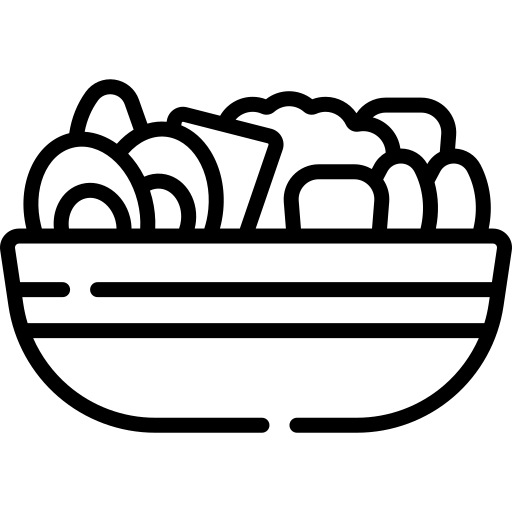
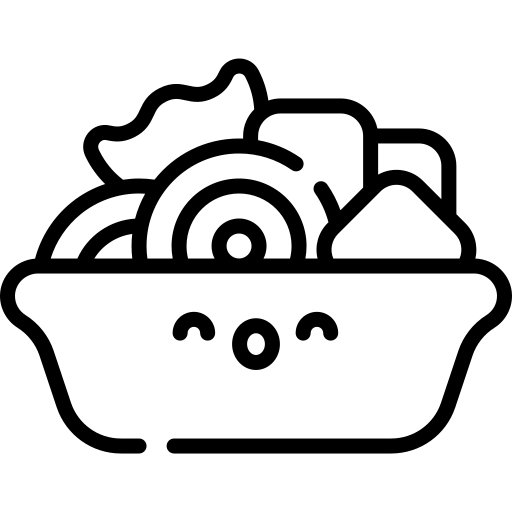
Mejora en método modificarProducto. Cambiados los iconos en todas(?) las pantallas

Changed region(s): [[0.0, 0.0938, 1.0, 0.9062]]

diff --git a/src/main/java/daw/UtilidadesAdmin.java b/src/main/java/daw/UtilidadesAdmin.java
@@ -15,14 +15,11 @@ import javax.swing.JTextField;
  * @author francisco
  */
 public class UtilidadesAdmin {
-    
-    public static boolean pedirPassword(){
-        
+
+    public static boolean pedirPassword() {
+
         boolean paswordValida = false;
-        
-        
-        
-        
+
         return paswordValida;
     }
 
@@ -32,7 +29,7 @@ public class UtilidadesAdmin {
             "Borrar producto", "Consultar ventas", "Volver"};
         int opcionElegida = JOptionPane.showOptionDialog(null,
                 "Escoge una opción", "TPV - Poke Zen", JOptionPane.DEFAULT_OPTION,
-                JOptionPane.PLAIN_MESSAGE, null, options, options[4]);
+                JOptionPane.PLAIN_MESSAGE, new ImageIcon("src/main/java/iconos/admin1.png"), options, options[4]);
 
         switch (opcionElegida) {
             case 0 -> {
@@ -51,7 +48,7 @@ public class UtilidadesAdmin {
             case 2 -> {
                 Producto opcionElegidaProducto = (Producto) JOptionPane.showInputDialog(null,
                         "Escoge el producto a borrar", "TPV - Poke Zen", JOptionPane.QUESTION_MESSAGE,
-                        null, tpv.getCartaProductos().toArray(),
+                        new ImageIcon("src/main/java/iconos/admin1.png"), tpv.getCartaProductos().toArray(),
                         tpv.getCartaProductos().get(0));
                 for (Producto p : tpv.getCartaProductos()) {
                     if (opcionElegidaProducto.equals(p)) {
@@ -71,8 +68,8 @@ public class UtilidadesAdmin {
     private static void modificarProducto(TPV tpv) {
 
         Producto opcionElegidaProducto = (Producto) JOptionPane.showInputDialog(null,
-                "Escoge el producto a editar", "TPV - Poke Zen", JOptionPane.QUESTION_MESSAGE,
-                null, tpv.getCartaProductos().toArray(),
+                "Escoge el producto a editar", "TPV - Poke Zen", JOptionPane.OK_CANCEL_OPTION,
+                new ImageIcon("src/main/java/iconos/admin1.png"), tpv.getCartaProductos().toArray(),
                 tpv.getCartaProductos().get(0));
 
         JTextField descrip = new JTextField();
@@ -91,19 +88,21 @@ public class UtilidadesAdmin {
             "Stock:", stock
         };
 
-        int option = JOptionPane.showConfirmDialog(null, message,
-                "TPV", JOptionPane.OK_CANCEL_OPTION);
+        int option = JOptionPane.showConfirmDialog(null, message, 
+                "TPV - Poke Zen", JOptionPane.OK_CANCEL_OPTION, 
+                JOptionPane.QUESTION_MESSAGE, 
+                new ImageIcon("src/main/java/iconos/admin1.png"));
 
         if (option == JOptionPane.OK_OPTION) {
 
             String atributosCambiados = "";
 
-            if (!descrip.getText().equals("")) {
+            if (!descrip.getText().trim().equals("")) {
                 opcionElegidaProducto.setDescripcion(descrip.getText());
                 atributosCambiados += "Descripción, ";
             }
 
-            if (!categ.getText().equals("")) {
+            if (!categ.getText().trim().equals("")) {
                 for (Categoria c : Categoria.values()) {
                     if (categ.getText().equalsIgnoreCase(c.getCATEGORIA())) {
                         opcionElegidaProducto.setCategoria(c);
@@ -112,7 +111,7 @@ public class UtilidadesAdmin {
                 }
             }
 
-            if (!subcat.getText().equals("")) {
+            if (!subcat.getText().trim().equals("")) {
                 for (Subcategoria s : Subcategoria.values()) {
                     if (subcat.getText().equalsIgnoreCase(s.getSUBCATEGORIA())) {
                         opcionElegidaProducto.setSubcategoria(s);
@@ -121,52 +120,55 @@ public class UtilidadesAdmin {
                 }
             }
 
-            if (!precio.getText().equals("")) {
+            boolean error = false;
+
+            if (!precio.getText().trim().equals("")) {
 
                 try {
                     opcionElegidaProducto.setPrecio(Double.parseDouble(precio.getText()));
                     atributosCambiados += "Precio, ";
                 } catch (NumberFormatException nfe) {
+                    error = true;
                     String[] opciones = {"Aceptar"};
 
                     JOptionPane.showOptionDialog(null,
                             "Eso no es un número", "TPV - Poke Zen", JOptionPane.DEFAULT_OPTION,
-                            JOptionPane.QUESTION_MESSAGE, new ImageIcon("src/main/java/iconos/poke3.png"),
+                            JOptionPane.QUESTION_MESSAGE, new ImageIcon("src/main/java/iconos/admin1.png"),
                             opciones, opciones[0]);
                 }
-            }
+                if (!iva.getText().trim().equals("") && !error) {
+                    for (IVA iv : IVA.values()) {
+                        if (Double.parseDouble(iva.getText()) == iv.getPORCENTAJE_IVA()) {
 
-            if (!iva.getText().equals("")) {
-                for (IVA iv : IVA.values()) {
-                    if (Double.parseDouble(iva.getText()) == iv.getPORCENTAJE_IVA()) {
+                            try {
+                                opcionElegidaProducto.setIVA(iv);
+                                atributosCambiados += "IVA, ";
+                            } catch (NumberFormatException nfe) {
+                                error = true;
+                                String[] opciones = {"Aceptar"};
+
+                                JOptionPane.showOptionDialog(null,
+                                        "Eso no es un número", "TPV - Poke Zen", JOptionPane.DEFAULT_OPTION,
+                                        JOptionPane.QUESTION_MESSAGE, new ImageIcon("src/main/java/iconos/admin1.png"),
+                                        opciones, opciones[0]);
+                            }
+                        }
+                    }
+                    if (!stock.getText().trim().equals("") && !error) {
 
                         try {
-                            opcionElegidaProducto.setIVA(iv);
-                            atributosCambiados += "IVA, ";
+                            opcionElegidaProducto.setStock(Integer.parseInt(stock.getText()));
+                            atributosCambiados += "Stock";
                         } catch (NumberFormatException nfe) {
+                            error = true;
                             String[] opciones = {"Aceptar"};
 
                             JOptionPane.showOptionDialog(null,
                                     "Eso no es un número", "TPV - Poke Zen", JOptionPane.DEFAULT_OPTION,
-                                    JOptionPane.QUESTION_MESSAGE, new ImageIcon("src/main/java/iconos/poke3.png"),
+                                    JOptionPane.QUESTION_MESSAGE, new ImageIcon("src/main/java/iconos/admin1.png"),
                                     opciones, opciones[0]);
                         }
                     }
-                }
-            }
-
-            if (!stock.getText().equals("")) {
-
-                try {
-                    opcionElegidaProducto.setStock(Integer.parseInt(stock.getText()));
-                    atributosCambiados += "Stock";
-                } catch (NumberFormatException nfe) {
-                    String[] opciones = {"Aceptar"};
-
-                    JOptionPane.showOptionDialog(null,
-                            "Eso no es un número", "TPV - Poke Zen", JOptionPane.DEFAULT_OPTION,
-                            JOptionPane.QUESTION_MESSAGE, new ImageIcon("src/main/java/iconos/poke3.png"),
-                            opciones, opciones[0]);
                 }
             }
 
@@ -175,8 +177,9 @@ public class UtilidadesAdmin {
             JOptionPane.showOptionDialog(null,
                     "Cambios realizados con éxito en " + atributosCambiados,
                     "TPV - Poke Zen", JOptionPane.DEFAULT_OPTION,
-                    JOptionPane.QUESTION_MESSAGE, null,
+                    JOptionPane.QUESTION_MESSAGE, new ImageIcon("src/main/java/iconos/admin1.png"),
                     opciones, opciones[0]);
+
         } else {
             modoMantenimiento(tpv);
         }
@@ -205,34 +208,35 @@ public class UtilidadesAdmin {
             "IVA:", iva,
             "Stock:", stock
         };
-
-        int option = JOptionPane.showConfirmDialog(null, message,
-                "TPV - Poke Zen", JOptionPane.OK_CANCEL_OPTION);
+        
+        int option = JOptionPane.showConfirmDialog(null, message, 
+                "TPV - Poke Zen", JOptionPane.OK_CANCEL_OPTION, 
+                JOptionPane.QUESTION_MESSAGE, 
+                new ImageIcon("src/main/java/iconos/admin1.png"));
 
         if (option == JOptionPane.OK_OPTION) {
 
             producto.setDescripcion(descrip.getText());
-//            try {
-                producto.setPrecio(Double.parseDouble(precio.getText()));
-                producto.setStock(Integer.parseInt(stock.getText()));
+            producto.setPrecio(Double.parseDouble(precio.getText()));
+            producto.setStock(Integer.parseInt(stock.getText()));
 
-                for (Categoria c : Categoria.values()) {
-                    if (categ.getText().equalsIgnoreCase(c.getCATEGORIA())) {
-                        producto.setCategoria(c);
-                    }
+            for (Categoria c : Categoria.values()) {
+                if (categ.getText().equalsIgnoreCase(c.getCATEGORIA())) {
+                    producto.setCategoria(c);
                 }
+            }
 
-                for (Subcategoria s : Subcategoria.values()) {
-                    if (subcat.getText().equalsIgnoreCase(s.getSUBCATEGORIA())) {
-                        producto.setSubcategoria(s);
-                    }
+            for (Subcategoria s : Subcategoria.values()) {
+                if (subcat.getText().equalsIgnoreCase(s.getSUBCATEGORIA())) {
+                    producto.setSubcategoria(s);
                 }
+            }
 
-                for (IVA iv : IVA.values()) {
-                    if (Double.parseDouble(iva.getText()) == iv.getPORCENTAJE_IVA()) {
-                        producto.setIVA(iv);
-                    }
+            for (IVA iv : IVA.values()) {
+                if (Double.parseDouble(iva.getText()) == iv.getPORCENTAJE_IVA()) {
+                    producto.setIVA(iv);
                 }
+            }
 //            } catch (NumberFormatException nfe) {
 //                String[] opciones = {"Aceptar"};
 //

diff --git a/src/main/java/daw/UtilidadesTPV.java b/src/main/java/daw/UtilidadesTPV.java
@@ -60,7 +60,7 @@ public class UtilidadesTPV {
 
         int opcionUsuario = JOptionPane.showOptionDialog(null,
                 "Elige un modo", "TPV - Poke Zen", JOptionPane.DEFAULT_OPTION,
-                JOptionPane.QUESTION_MESSAGE, new ImageIcon("src/main/java/iconos/poke3.png"), opciones, opciones[0]);
+                JOptionPane.QUESTION_MESSAGE, new ImageIcon("src/main/java/iconos/user1.png"), opciones, opciones[0]);
 
         return opcionUsuario;
     }
@@ -71,7 +71,7 @@ public class UtilidadesTPV {
             Categoria.POSTRE, "Volver", "Ver cesta"};
         int opcionElegida = JOptionPane.showOptionDialog(null,
                 "Escoge una categoría", "TPV - Poke Zen", JOptionPane.DEFAULT_OPTION,
-                JOptionPane.PLAIN_MESSAGE, new ImageIcon("src/main/java/iconos/poke3.png"), options, options[3]);
+                JOptionPane.PLAIN_MESSAGE, new ImageIcon("src/main/java/iconos/poke1.png"), options, options[3]);
 
         switch (opcionElegida) {
             case 0 -> {
@@ -103,7 +103,7 @@ public class UtilidadesTPV {
         Object[] options = {s1, s2, s3, "Volver", "Ver cesta"};
         int opcionElegida = JOptionPane.showOptionDialog(null,
                 "Escoge una subcategoría", "TPV - Poke Zen", JOptionPane.DEFAULT_OPTION,
-                JOptionPane.PLAIN_MESSAGE, new ImageIcon("src/main/java/iconos/poke3.png"), options, options[3]);
+                JOptionPane.PLAIN_MESSAGE, new ImageIcon("src/main/java/iconos/poke1.png"), options, options[3]);
 
         switch (opcionElegida) {
             case 0 -> {
@@ -142,7 +142,7 @@ public class UtilidadesTPV {
 
         String opcionElegidaProducto = (String) JOptionPane.showInputDialog(null,
                 "Escoge un producto", "TPV - Poke Zen", JOptionPane.QUESTION_MESSAGE,
-                new ImageIcon("src/main/java/iconos/poke3.png"), nombreProductosAMostrar.toArray(),
+                new ImageIcon("src/main/java/iconos/poke1.png"), nombreProductosAMostrar.toArray(),
                 nombreProductosAMostrar.get(0));
 
         if (opcionElegidaProducto == null) {
@@ -172,7 +172,7 @@ public class UtilidadesTPV {
 
                     JOptionPane.showOptionDialog(null,
                             "Eso no es un número", "TPV - Poke Zen", JOptionPane.DEFAULT_OPTION,
-                            JOptionPane.QUESTION_MESSAGE, new ImageIcon("src/main/java/iconos/poke3.png"), 
+                            JOptionPane.QUESTION_MESSAGE, new ImageIcon("src/main/java/iconos/poke1.png"), 
                             opciones, opciones[0]);
                 }
                 if (numProductos > p.getStock()) {
@@ -181,7 +181,7 @@ public class UtilidadesTPV {
                     JOptionPane.showOptionDialog(null,
                             "Sólo nos queda " + p.getStock() + " " + p.getDescripcion() 
                                     + ", prueba de nuevo", "TPV - Poke Zen", JOptionPane.DEFAULT_OPTION,
-                            JOptionPane.QUESTION_MESSAGE, new ImageIcon("src/main/java/iconos/poke3.png"), 
+                            JOptionPane.QUESTION_MESSAGE, new ImageIcon("src/main/java/iconos/poke1.png"), 
                             opciones, opciones[0]);
                 }
             } while (excepcion);
@@ -216,7 +216,7 @@ public class UtilidadesTPV {
         String[] options = {"Finalizar compra", "Cancelar compra", "Volver"};
         int opcionElegida = JOptionPane.showOptionDialog(null,
                 infoProductosCesta, "TPV - Poke Zen", JOptionPane.DEFAULT_OPTION,
-                JOptionPane.PLAIN_MESSAGE, new ImageIcon("src/main/java/iconos/poke3.png"), 
+                JOptionPane.PLAIN_MESSAGE, new ImageIcon("src/main/java/iconos/poke1.png"), 
                 options, null);
 
         switch (opcionElegida) {
@@ -239,7 +239,7 @@ public class UtilidadesTPV {
         String digitosTarjeta = (String) JOptionPane.showInputDialog(null, 
                 "Introduce los últimos 4 dígitos de tu tarjeta", 
                 "TPV - Poke Zen", JOptionPane.OK_CANCEL_OPTION, 
-                new ImageIcon("src/main/java/iconos/poke3.png"), 
+                new ImageIcon("src/main/java/iconos/poke1.png"), 
                 null, null);
 
         if (UtilidadesTarjeta.numTarjetaValido(digitosTarjeta)) {

diff --git a/src/main/java/daw/TPV.java b/src/main/java/daw/TPV.java
@@ -16,7 +16,7 @@ import org.apache.commons.lang3.RandomStringUtils;
  * @author FX506
  */
 public class TPV {
-    
+
     private final UUID ID;
     private LocalDateTime fechaHoraSistema;
     private String direccion;
@@ -94,32 +94,33 @@ public class TPV {
         return sb.toString();
     }
 
-    private String crearPassword(){
+    private String crearPassword() {
         return RandomStringUtils.randomAlphabetic(3).toLowerCase()
                 + RandomStringUtils.randomAlphabetic(1).toUpperCase()
                 + RandomStringUtils.randomNumeric(1)
                 + RandomStringUtils.random(1, "#$%&()*+,-.:;<=>@");
     }
-    
-    public void encenderTPV(){
-        
+
+    public void encenderTPV() {
+
         System.out.println("Contraseña Admin: " + crearPassword());
-        
+
         UIManager.put("OptionPane.okButtonText", "Aceptar");
         UIManager.put("OptionPane.cancelButtonText", "Volver");
         UIManager.put("OptionPane.background", new Color(147, 217, 196));
         UIManager.put("Panel.background", new Color(147, 217, 196));
         
-        int opcionModo = UtilidadesTPV.seleccionarModo();
-        
-        if(opcionModo == 1){
-            while(true){
+        while (true) {
+            int opcionModo = UtilidadesTPV.seleccionarModo();
+
+            if (opcionModo == 1) {
+
                 UtilidadesTPV.seleccionarCategoría(this);
-            }    
-        }else {
-            UtilidadesAdmin.modoMantenimiento(this);
+
+            } else {
+                UtilidadesAdmin.modoMantenimiento(this);
+            }
         }
-        
     }
-    
+
 }
